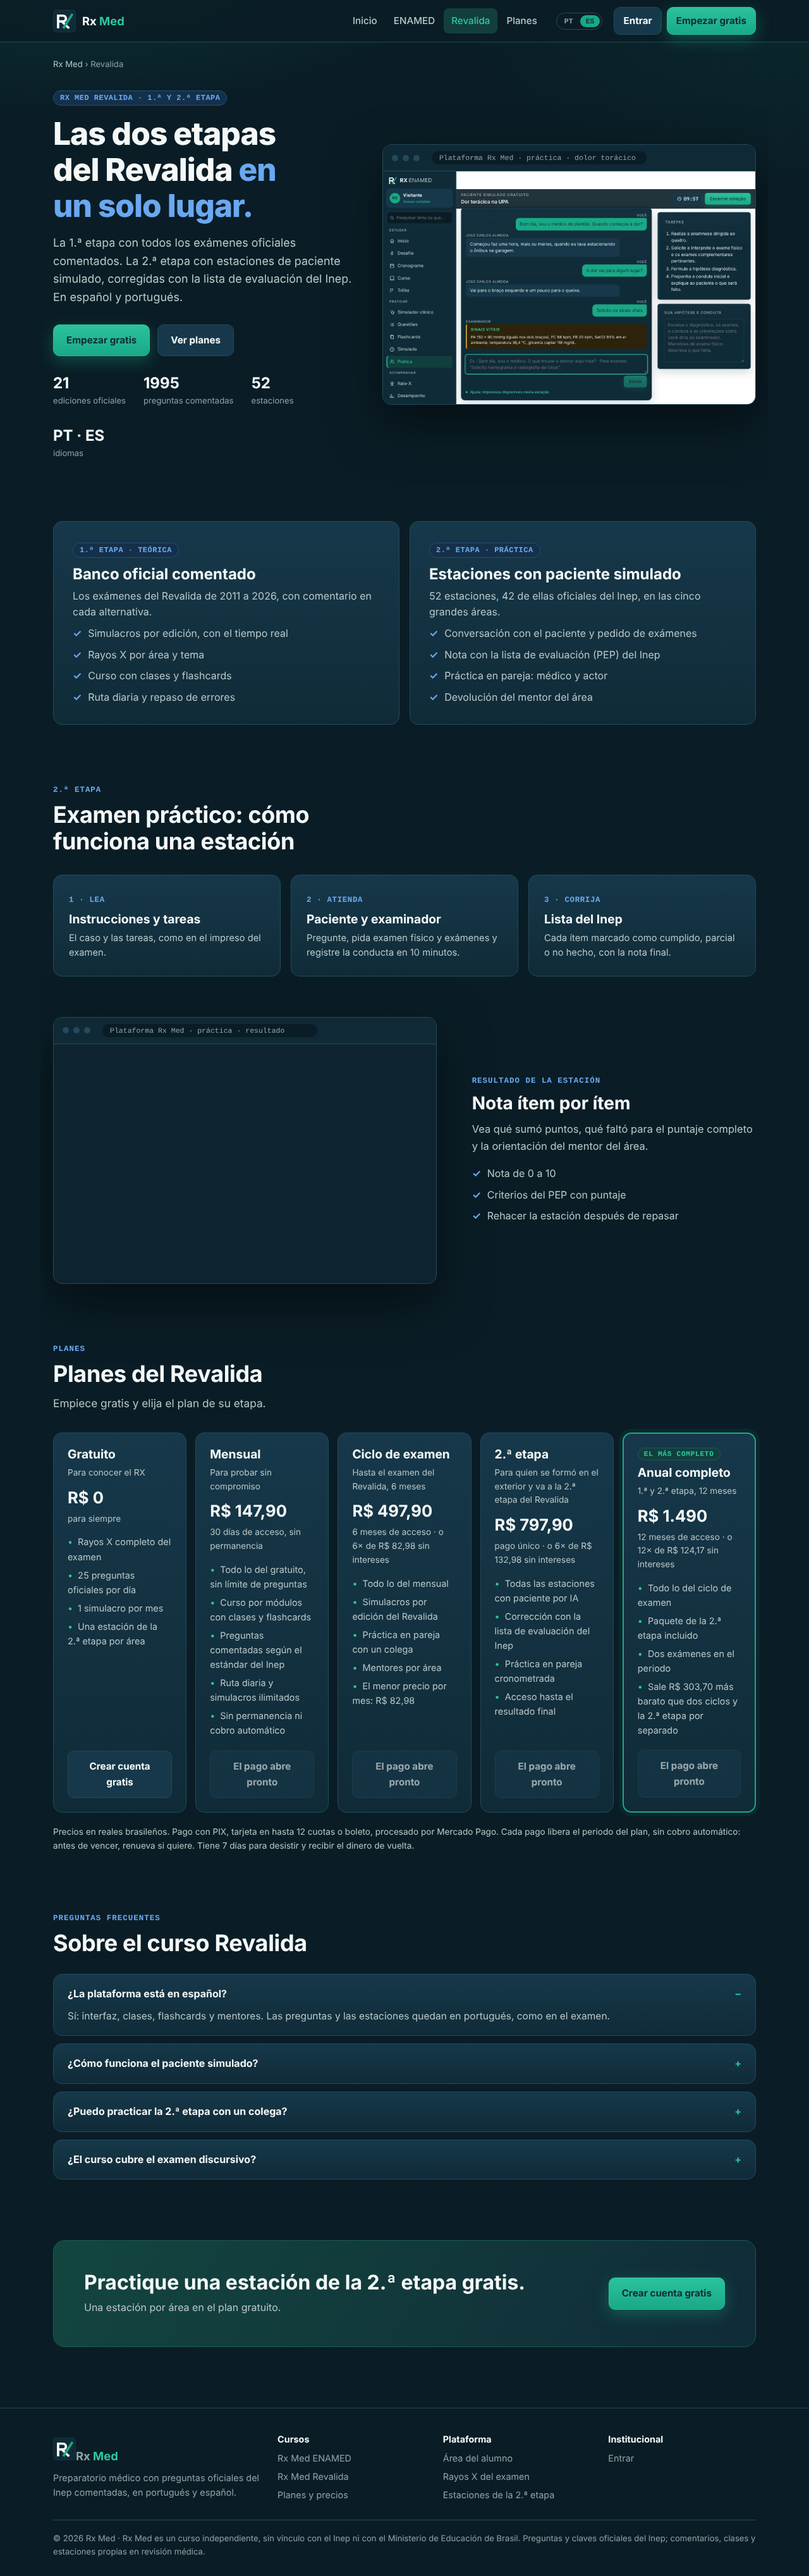
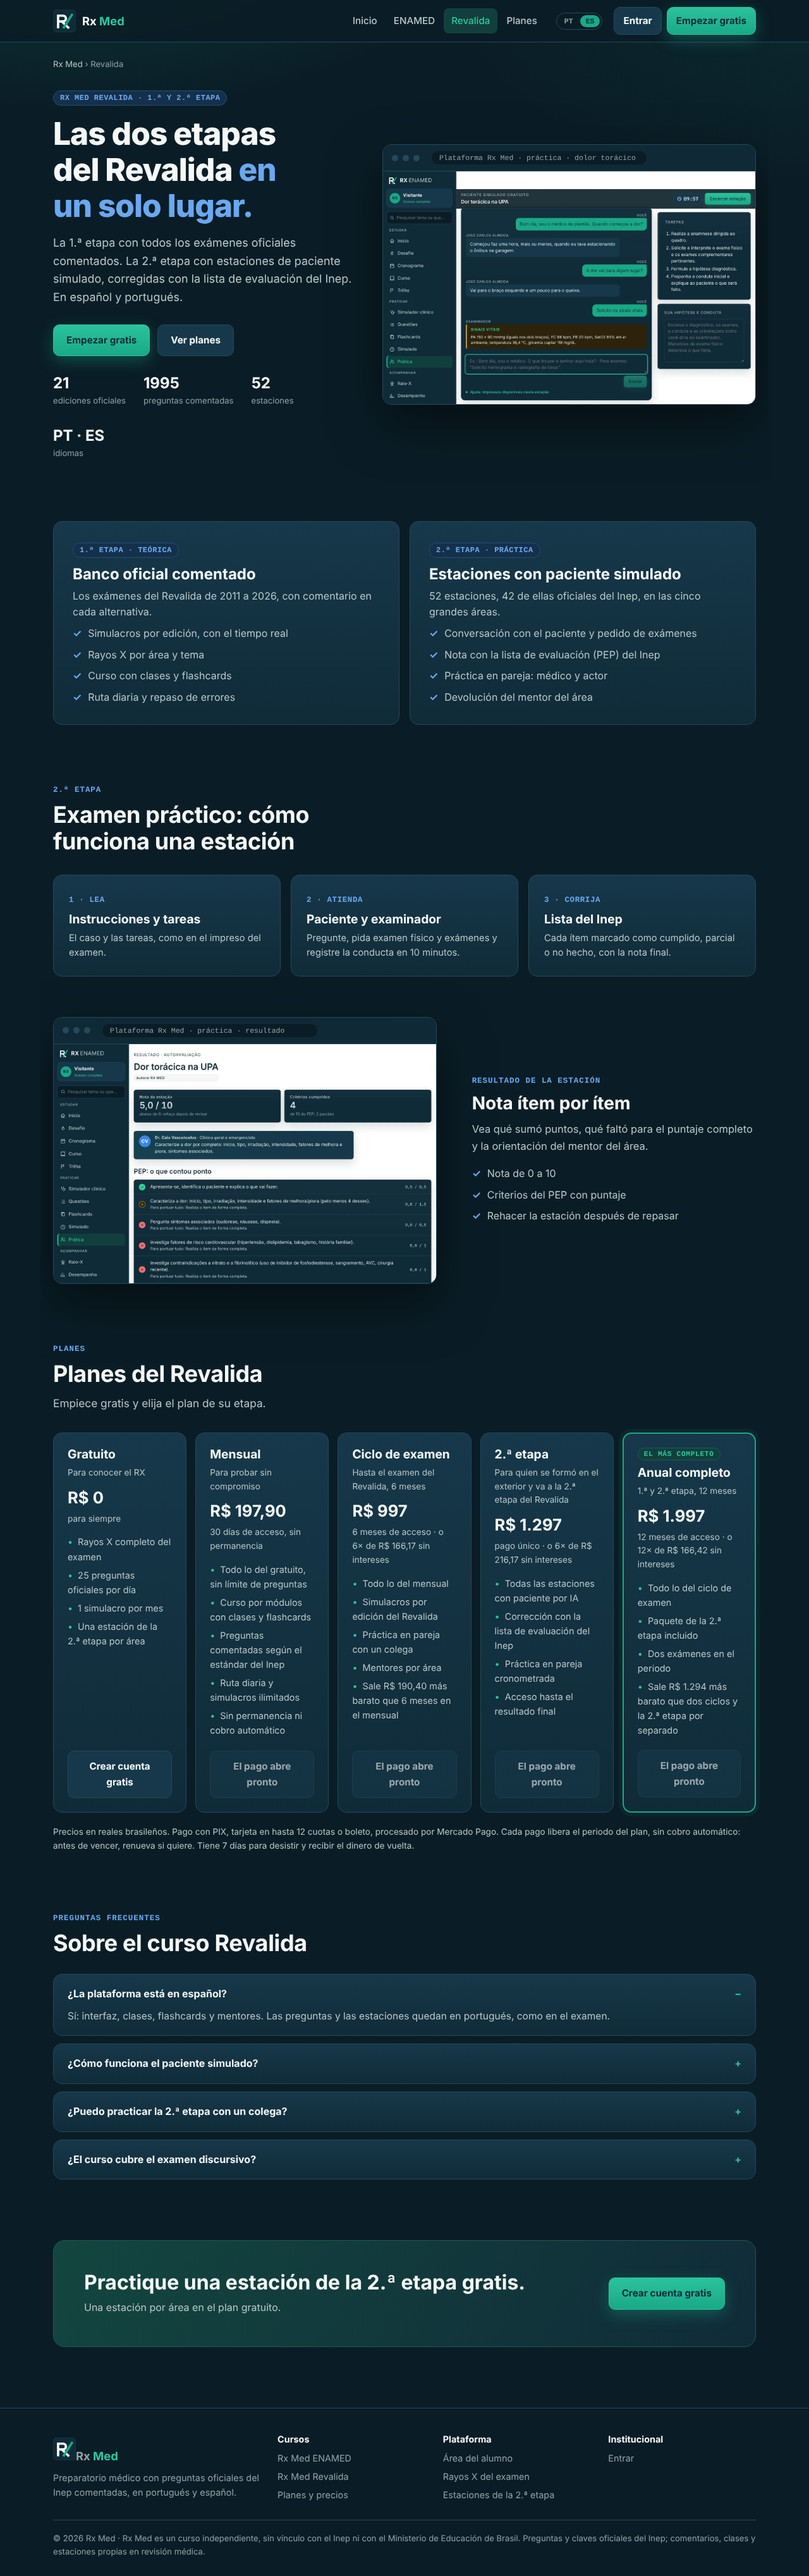
Novas faixas de preço: Mensal R$ 197,90, Ciclo R$ 997, 2ª etapa R$ 1.297 e Anual R$ 1.997
Textos de economia recalculados (Ciclo R$ 190,40 abaixo de 6 meses no mensal;
Anual R$ 1.294 abaixo de dois ciclos e a 2ª etapa) e testes atualizados.

Claude-Session: https://claude.ai/code/session_01XC3RWuP12k3CEFXbjwtph3

Changed region(s): [[0.0625, 0.4054, 0.5625, 0.4989], [0.4688, 0.6548, 0.5, 0.686]]

diff --git a/servidor/teste/servidor.test.js b/servidor/teste/servidor.test.js
@@ -110,7 +110,7 @@ test('PIX: pedido pendente, aviso com assinatura falsa é recusado, aviso válid
   assert.equal(r.status, 201);
   const { pedido } = r.corpo;
   assert.equal(pedido.status, 'pendente');
-  assert.equal(pedido.valorCentavos, 14790, 'o preço vem do servidor, não do navegador');
+  assert.equal(pedido.valorCentavos, 19790, 'o preço vem do servidor, não do navegador');
   assert.equal(pedido.pagamento.pixCopiaECola, '00020126PIXFALSO');
   const mpId = [...mpFalso.pagamentos.values()].find((p) => p.external_reference === pedido.id).id;
 
@@ -152,14 +152,14 @@ test('boleto: devolve link e código de barras', async () => {
   const r = await a.post('/api/checkout/pagar', { plano: 'segunda-etapa', metodo: 'boleto', cpf: CPF });
   assert.equal(r.status, 201);
   assert.equal(r.corpo.pedido.pagamento.boletoUrl, 'https://mp.test/boleto');
-  assert.equal(r.corpo.pedido.valorCentavos, 79790);
+  assert.equal(r.corpo.pedido.valorCentavos, 129700);
 });
 
 test('admin: resumo de vendas, lista de alunos, liberação manual, revogação, reembolso e CSV', async () => {
   const adm = cliente();
   await adm.post('/api/cadastro', { nome: 'Admin RX', email: 'admin@rx.test', senha: 'senha-forte-1' , aceite: true, ...FICHA });
   const resumo = (await adm.get('/api/admin/resumo?dias=30')).corpo;
-  assert.equal(resumo.receita.total, 14790 + 49790 + 14790);
+  assert.equal(resumo.receita.total, 19790 + 99700 + 19790);
   assert.equal(resumo.alunos.ativos, 2);
   assert.equal(resumo.serie.length, 30);
   assert.ok(resumo.conversao > 0 && resumo.conversao < 1);
@@ -217,20 +217,20 @@ test('cupons e afiliados: desconto calculado no servidor, comissão, limite de u
   await a.post('/api/cadastro', { nome: 'Elisa Melo', email: 'elisa@rx.test', senha: 'senha-forte-1' , aceite: true, ...FICHA });
   assert.equal((await a.post('/api/checkout/cupom', { plano: 'mensal', cupom: 'RX20' })).status, 400, 'cupom só do ciclo');
   const previa = (await a.post('/api/checkout/cupom', { plano: 'ciclo', cupom: 'rx20' })).corpo;
-  assert.equal(previa.valorCentavos, 49790 - 9958);
+  assert.equal(previa.valorCentavos, 99700 - 19940);
   const p1 = (await a.post('/api/checkout/pagar', { plano: 'ciclo', metodo: 'cartao', cpf: CPF, cupom: 'RX20', cartao: { token: 'ok', metodoPagamento: 'visa', parcelas: 1 } })).corpo.pedido;
-  assert.equal(p1.valorCentavos, 39832);
-  assert.equal(p1.descontoCentavos, 9958);
+  assert.equal(p1.valorCentavos, 99700 - 19940);
+  assert.equal(p1.descontoCentavos, 19940);
   assert.equal((await banco.um(`SELECT usos FROM cupons WHERE codigo = 'RX20'`)).usos, 1);
   assert.equal((await a.post('/api/checkout/cupom', { plano: 'ciclo', cupom: 'RX20' })).status, 400, 'limite de 1 uso atingido');
 
   const p2 = (await a.post('/api/checkout/pagar', { plano: 'mensal', metodo: 'cartao', cpf: CPF, cupom: 'PAULA50', cartao: { token: 'ok3', metodoPagamento: 'visa', parcelas: 1 } })).corpo.pedido;
-  assert.equal(p2.valorCentavos, 14790 - 5000);
+  assert.equal(p2.valorCentavos, 19790 - 5000);
   const p3 = (await a.post('/api/checkout/pagar', { plano: 'mensal', metodo: 'cartao', cpf: CPF, ref: 'PAULA', cartao: { token: 'ok4', metodoPagamento: 'visa', parcelas: 1 } })).corpo.pedido;
-  assert.equal(p3.valorCentavos, 14790, 'link de indicação não dá desconto, só atribui a venda');
+  assert.equal(p3.valorCentavos, 19790, 'link de indicação não dá desconto, só atribui a venda');
   const lista = (await adm.get('/api/admin/afiliados')).corpo.afiliados.find((x) => x.codigo === 'PAULA');
   assert.equal(lista.vendas, 2);
-  assert.equal(lista.comissao_em_garantia, Math.round(9790 * 0.3) + Math.round(14790 * 0.3));
+  assert.equal(lista.comissao_em_garantia, Math.round(14790 * 0.3) + Math.round(19790 * 0.3));
   assert.equal(lista.comissao_liberada, 0, 'comissão só libera depois dos 7 dias de garantia');
   const resumo = (await adm.get('/api/admin/resumo')).corpo;
   assert.equal(resumo.porAfiliado[0].codigo, 'PAULA');
@@ -338,7 +338,7 @@ test('indicação: link, desconto de 10% para o indicado, 30 dias para quem indi
   assert.equal((await amigo.get('/api/checkout/config')).corpo.descontoIndicacao, 10);
 
   const compra = (await amigo.post('/api/checkout/pagar', { plano: 'ciclo', metodo: 'cartao', cpf: '11144477735', cartao: { token: 'ind1', metodoPagamento: 'visa', parcelas: 1 } })).corpo.pedido;
-  assert.equal(compra.valorCentavos, 49790 - 4979, '10% de desconto na primeira compra');
+  assert.equal(compra.valorCentavos, 99700 - 9970, '10% de desconto na primeira compra');
   const iara = (await ana.get('/api/indicacao')).corpo;
   assert.equal(iara.cadastros, 1);
   assert.equal(iara.compraram, 1);
@@ -348,7 +348,7 @@ test('indicação: link, desconto de 10% para o indicado, 30 dias para quem indi
 
   // Segunda compra do indicado: sem desconto e sem nova recompensa.
   const segunda = (await amigo.post('/api/checkout/pagar', { plano: 'mensal', metodo: 'cartao', cpf: '11144477735', cartao: { token: 'ind2', metodoPagamento: 'visa', parcelas: 1 } })).corpo.pedido;
-  assert.equal(segunda.valorCentavos, 14790);
+  assert.equal(segunda.valorCentavos, 19790);
   assert.equal((await ana.get('/api/indicacao')).corpo.compraram, 1);
 
   // Reembolso da primeira compra cancela os 30 dias.

diff --git a/servidor/demo/api-demo.js b/servidor/demo/api-demo.js
@@ -10,10 +10,10 @@ const escolher = (l) => l[Math.floor(aleatorio() * l.length)];
 const uuid = () => 'xxxxxxxx-xxxx-4xxx-8xxx-xxxxxxxxxxxx'.replace(/x/g, () => Math.floor(aleatorio() * 16).toString(16));
 
 const PLANOS = [
-  { id: 'mensal', nome: 'Mensal', valorCentavos: 14790, duracaoMeses: 1, parcelasMax: 1 },
-  { id: 'ciclo', nome: 'Ciclo de prova', valorCentavos: 49790, duracaoMeses: 6, parcelasMax: 6 },
-  { id: 'segunda-etapa', nome: '2ª etapa', valorCentavos: 79790, duracaoMeses: 8, parcelasMax: 6 },
-  { id: 'anual', nome: 'Anual completo', valorCentavos: 149000, duracaoMeses: 12, parcelasMax: 12 },
+  { id: 'mensal', nome: 'Mensal', valorCentavos: 19790, duracaoMeses: 1, parcelasMax: 1 },
+  { id: 'ciclo', nome: 'Ciclo de prova', valorCentavos: 99700, duracaoMeses: 6, parcelasMax: 6 },
+  { id: 'segunda-etapa', nome: '2ª etapa', valorCentavos: 129700, duracaoMeses: 8, parcelasMax: 6 },
+  { id: 'anual', nome: 'Anual completo', valorCentavos: 199700, duracaoMeses: 12, parcelasMax: 12 },
 ];
 const porPlano = Object.fromEntries(PLANOS.map((p) => [p.id, p]));
 const NOMES = ['Ana', 'Bruno', 'Carla', 'Diego', 'Elisa', 'Felipe', 'Gabriela', 'Hugo', 'Isabela', 'João', 'Larissa', 'Mateus', 'Natália', 'Otávio', 'Paula', 'Rafael', 'Sofia', 'Tiago', 'Valéria', 'Yuri', 'Camila', 'Lucas', 'Mariana', 'Pedro', 'Juliana', 'Gustavo', 'Beatriz', 'Renato'];
